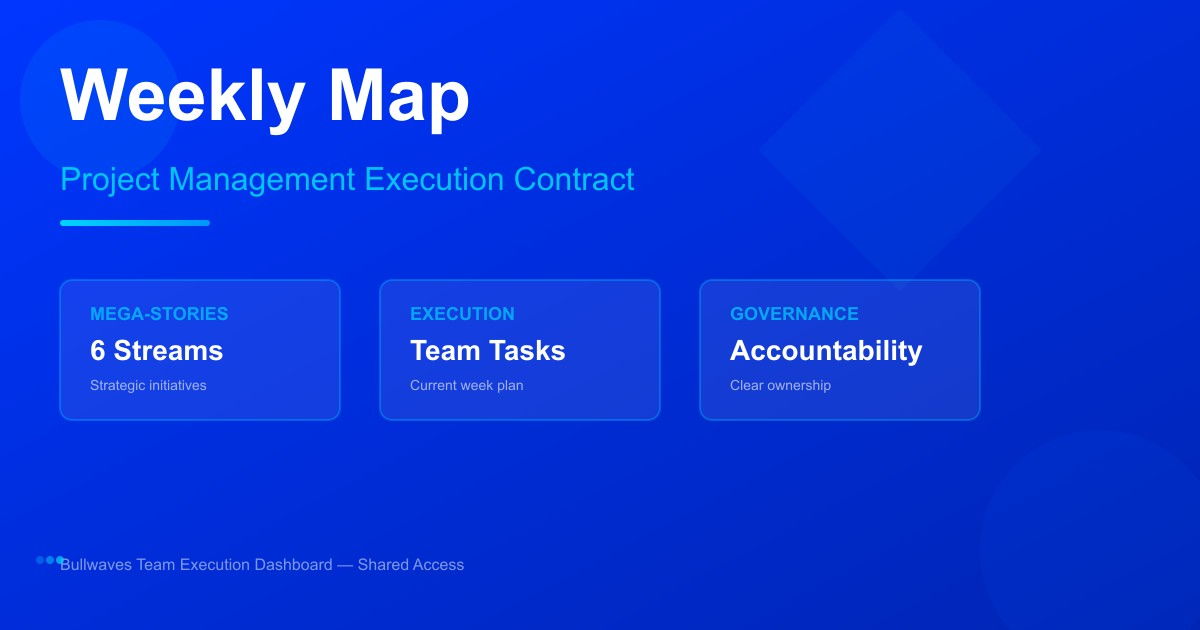
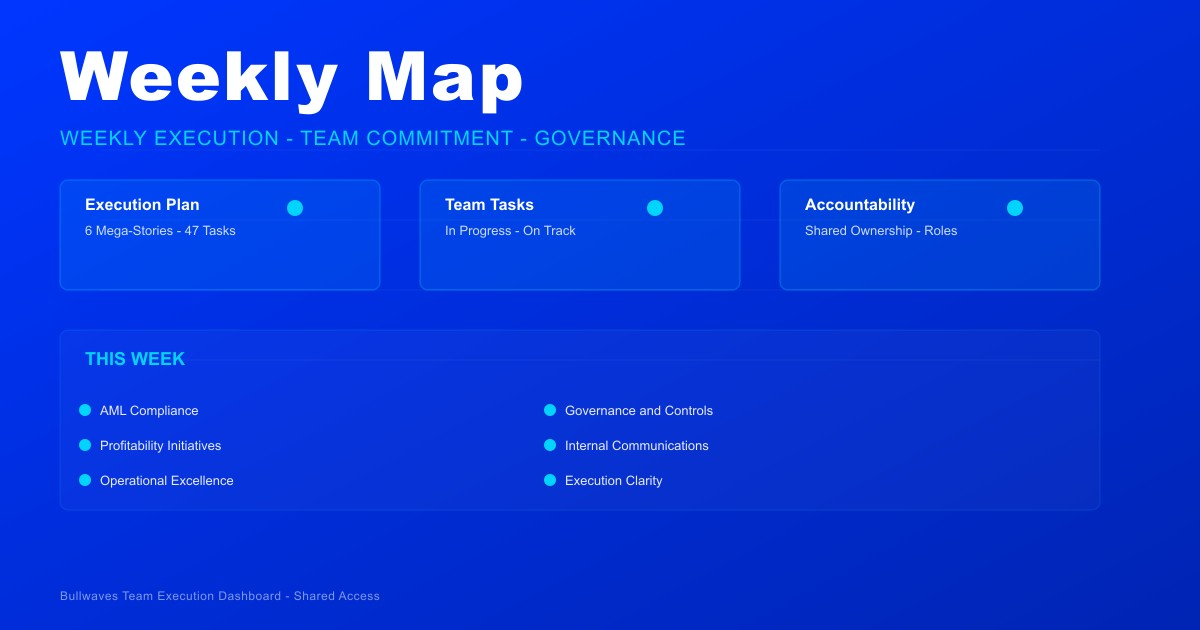
refactor: Redesign OG preview image with task-like layout and update meta descriptions

diff --git a/index.html b/index.html
@@ -6,8 +6,8 @@
     <title>Bullwaves — Dashboard</title>
     
     <!-- Open Graph Meta Tags (per link preview) -->
-    <meta property="og:title" content="Weekly Map — Team Execution Contract" />
-    <meta property="og:description" content="Team commitments, mega-stories, and project governance. Weekly execution dashboard." />
+    <meta property="og:title" content="Weekly Map — Team Execution" />
+    <meta property="og:description" content="Execution plan, task accountability & shared governance. 6 streams, 47 tasks — this week." />
     <meta property="og:image" content="https://bullwaves-console.vercel.app/og-image-weekly-map.jpg" />
     <meta property="og:image:type" content="image/jpeg" />
     <meta property="og:image:width" content="1200" />
@@ -17,8 +17,8 @@
     
     <!-- Twitter Card Meta Tags -->
     <meta name="twitter:card" content="summary_large_image" />
-    <meta name="twitter:title" content="Weekly Map — Team Execution Contract" />
-    <meta name="twitter:description" content="Team commitments, mega-stories, and project governance." />
+    <meta name="twitter:title" content="Weekly Map — Team Execution" />
+    <meta name="twitter:description" content="Execution plan, task accountability & shared governance. 6 streams, 47 tasks." />
     <meta name="twitter:image" content="https://bullwaves-console.vercel.app/og-image-weekly-map.jpg" />
     
     <link rel="icon" type="image/png" sizes="32x32" href="/favicon.png" />
